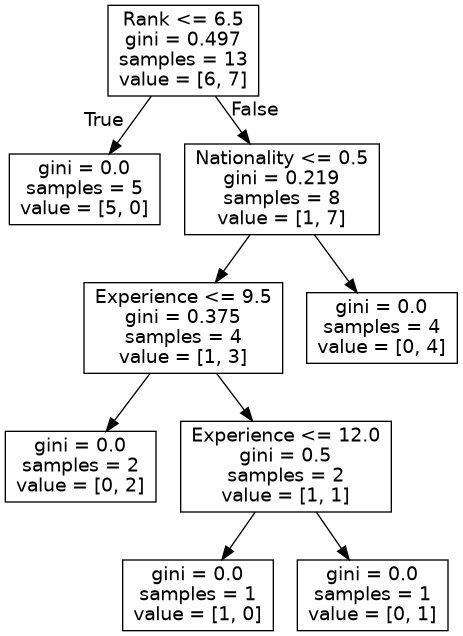
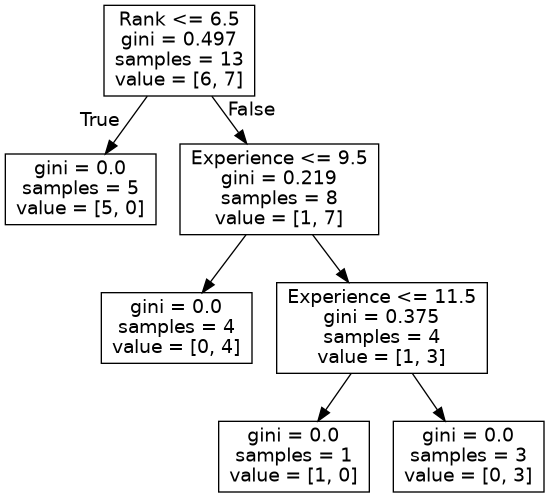
Added dynamic data hashing of dataframes

Changed region(s): [[0.0, 0.0, 0.9978, 0.996], [0.8164, 0.2414, 0.8467, 0.3622]]

diff --git a/demo.py b/demo.py
@@ -9,19 +9,37 @@ import pymongo
 from bson.json_util import loads, dumps
 import db
 
-
 db_address = 'mongodb://mongodb:mongodb@172.22.0.3:27017/'
 db_name = 'demo_db'
 collection_name = 'demo_data'
 client = db.connect_to_db(db_address)
 df = db.import_dataframe(client, db_name, collection_name)
 
-d = {'UK': 0, 'USA': 1, 'N': 2}
-df['Nationality'] = df['Nationality'].map(d)
-d = {'YES': 1, 'NO': 0}
-df['Go'] = df['Go'].map(d)
+print(df)
+for column in df:
+    if (column != '_id') and (df[column].dtypes == object):
+        yo = {}
+        print("NAME#", column)
+        df_column = df[column].drop_duplicates()
+        df_np = df_column.to_numpy()
+        for i in range(len(df_np)):
+            yo[df_np[i]] = i
+        df[column] = df[column].map(yo)
+        print(yo)
+        print()
+        print(df)
+        print()
 
-features = ['Age', 'Experience', 'Rank', 'Nationality']
+
+# d = {'UK': 0, 'USA': 1, 'N': 2}
+# df['Nationality'] = df['Nationality'].map(d)
+# d = {'YES': 1, 'NO': 0}
+# df['Go'] = df['Go'].map(d)
+# features = ['Age', 'Experience', 'Rank', 'Nationality']
+
+df_np = df.columns.to_numpy()
+features = df_np[1:-1]
+print(features)
 
 X = df[features]
 y = df['Go']
